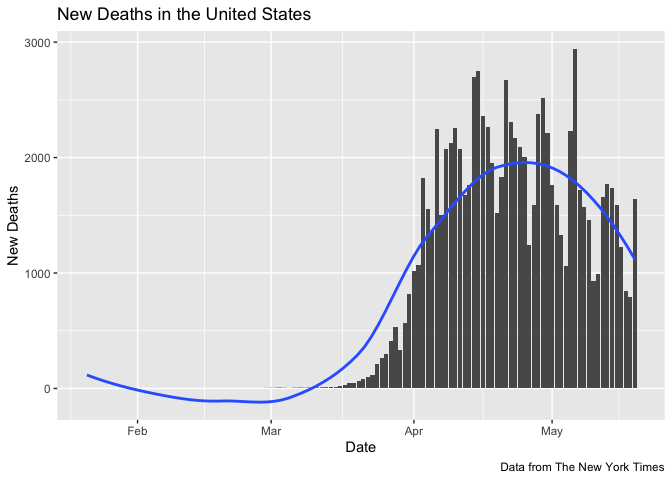
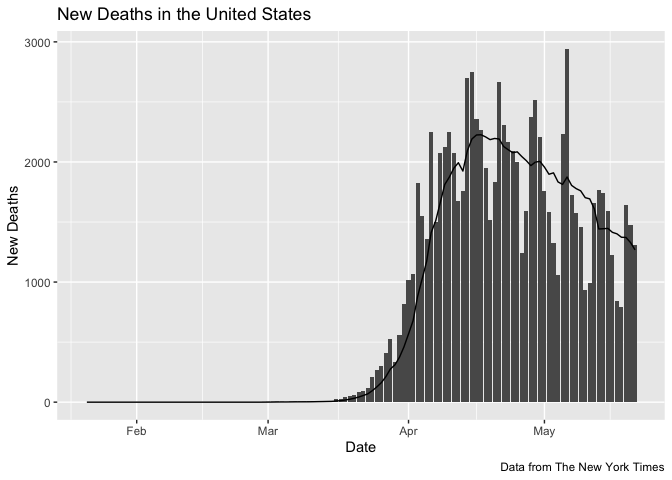
Added 7-day rolling average for new cases and deaths

diff --git a/Metro_Atlanta_COVID.md b/Metro_Atlanta_COVID.md
@@ -16,7 +16,7 @@ It’s hard to know how to interpret these numbers since there are major
 known unknowns. Neither confirmed cases nor deaths can be said to be
 reliable counts of the true numbers.
 
-Data current as of May 20,
+Data current as of May 22,
 2020.
 
 # Metro Atlanta
